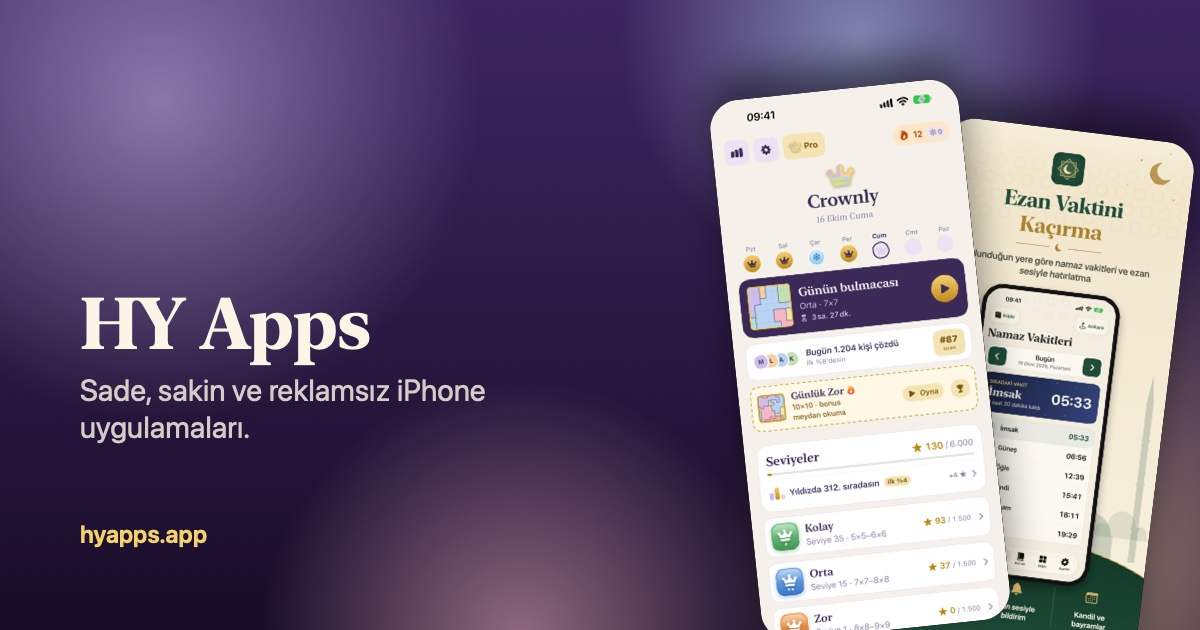
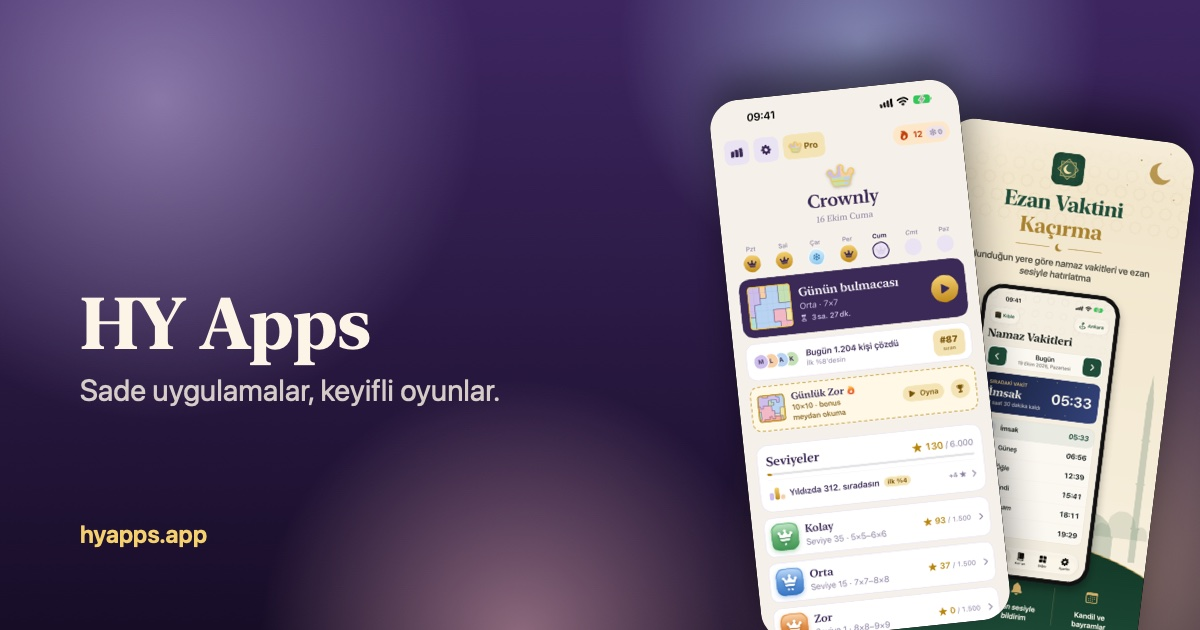
Studio headline: Simple apps, delightful games / Sade uygulamalar, keyifli oyunlar

Changed region(s): [[0.0617, 0.6032, 0.4317, 0.7238]]

diff --git a/tr/index.html b/tr/index.html
@@ -3,7 +3,7 @@
 <head>
   <meta charset="utf-8">
   <meta name="viewport" content="width=device-width, initial-scale=1">
-  <title>HY Apps · iPhone için sade ve huzurlu uygulamalar</title>
+  <title>HY Apps · iPhone için sade uygulamalar ve keyifli oyunlar</title>
   <meta name="description" content="HY Apps, iPhone için sade, huzurlu ve adil uygulamalar ve oyunlar yapan bağımsız bir stüdyo: günlük mantık bulmacası Crownly ve namaz vakitleri, Kur'an ve günlük ayet uygulaması Besmele.">
   <meta name="theme-color" content="#24163a">
   <link rel="canonical" href="https://hyapps.app/tr/">
@@ -11,15 +11,15 @@
   <link rel="alternate" hreflang="tr" href="https://hyapps.app/tr/">
   <link rel="alternate" hreflang="x-default" href="https://hyapps.app/">
   <meta property="og:type" content="website">
-  <meta property="og:title" content="HY Apps · iPhone için sade ve huzurlu uygulamalar">
-  <meta property="og:description" content="Sade, sakin ve reklamsız iPhone uygulamaları.">
+  <meta property="og:title" content="HY Apps · iPhone için sade uygulamalar ve keyifli oyunlar">
+  <meta property="og:description" content="iPhone için sade uygulamalar ve keyifli oyunlar. Reklamsız, takipsiz.">
   <meta property="og:url" content="https://hyapps.app/tr/">
   <meta property="og:image" content="https://hyapps.app/assets/og/studio-tr.jpg">
   <meta property="og:image:width" content="1200">
   <meta property="og:image:height" content="630">
   <meta name="twitter:card" content="summary_large_image">
-  <meta name="twitter:title" content="HY Apps · iPhone için sade ve huzurlu uygulamalar">
-  <meta name="twitter:description" content="Sade, sakin ve reklamsız iPhone uygulamaları.">
+  <meta name="twitter:title" content="HY Apps · iPhone için sade uygulamalar ve keyifli oyunlar">
+  <meta name="twitter:description" content="iPhone için sade uygulamalar ve keyifli oyunlar. Reklamsız, takipsiz.">
   <link rel="icon" href="/assets/favicon.png">
   <link rel="apple-touch-icon" href="/assets/apple-touch-icon.png">
   <link rel="stylesheet" href="/assets/site.css">
@@ -33,7 +33,7 @@
   <span class="lang"><a href="/" lang="en" hreflang="en">EN</a><a href="/tr/" class="on" aria-current="page" lang="tr">TR</a></span>
   <div class="blobs" aria-hidden="true"><i></i><i></i><i></i></div>
   <p class="mark">HY Apps</p>
-  <h1>Sade, sakin ve <em>reklamsız uygulamalar.</em></h1>
+  <h1>Sade uygulamalar, <em>keyifli oyunlar.</em></h1>
   <p>iPhone için uygulamalar ve oyunlar yapan bağımsız bir stüdyo. İşinin ortasında reklam yok, takip yok, her şey sade bir dille anlatılır.</p>
 </section>
 

diff --git a/index.html b/index.html
@@ -3,7 +3,7 @@
 <head>
   <meta charset="utf-8">
   <meta name="viewport" content="width=device-width, initial-scale=1">
-  <title>HY Apps · Simple, calm, ad-free iPhone apps</title>
+  <title>HY Apps · Simple apps and delightful games for iPhone</title>
   <meta name="description" content="HY Apps is an independent studio making small, calm and fair apps and games for iPhone: Crownly, a daily logic puzzle, and Bismillah (Besmele), daily verses and prayer times.">
   <meta name="theme-color" content="#24163a">
   <link rel="canonical" href="https://hyapps.app/">
@@ -11,15 +11,15 @@
   <link rel="alternate" hreflang="tr" href="https://hyapps.app/tr/">
   <link rel="alternate" hreflang="x-default" href="https://hyapps.app/">
   <meta property="og:type" content="website">
-  <meta property="og:title" content="HY Apps · Simple, calm, ad-free iPhone apps">
-  <meta property="og:description" content="Simple, calm and ad-free iPhone apps.">
+  <meta property="og:title" content="HY Apps · Simple apps and delightful games for iPhone">
+  <meta property="og:description" content="Simple apps and delightful games for iPhone. No ads in the middle of things, no tracking.">
   <meta property="og:url" content="https://hyapps.app/">
   <meta property="og:image" content="https://hyapps.app/assets/og/studio-en.jpg">
   <meta property="og:image:width" content="1200">
   <meta property="og:image:height" content="630">
   <meta name="twitter:card" content="summary_large_image">
-  <meta name="twitter:title" content="HY Apps · Simple, calm, ad-free iPhone apps">
-  <meta name="twitter:description" content="Simple, calm and ad-free iPhone apps.">
+  <meta name="twitter:title" content="HY Apps · Simple apps and delightful games for iPhone">
+  <meta name="twitter:description" content="Simple apps and delightful games for iPhone. No ads in the middle of things, no tracking.">
   <link rel="icon" href="/assets/favicon.png">
   <link rel="apple-touch-icon" href="/assets/apple-touch-icon.png">
   <link rel="stylesheet" href="/assets/site.css">
@@ -33,7 +33,7 @@
   <span class="lang"><a href="/" class="on" aria-current="page" lang="en">EN</a><a href="/tr/" lang="tr" hreflang="tr">TR</a></span>
   <div class="blobs" aria-hidden="true"><i></i><i></i><i></i></div>
   <p class="mark">HY Apps</p>
-  <h1>Simple, calm and <em>ad-free apps.</em></h1>
+  <h1>Simple apps, <em>delightful games.</em></h1>
   <p>An independent studio making apps and games for iPhone. No ads in the middle of things, no tracking, everything explained in plain words.</p>
 </section>
 
